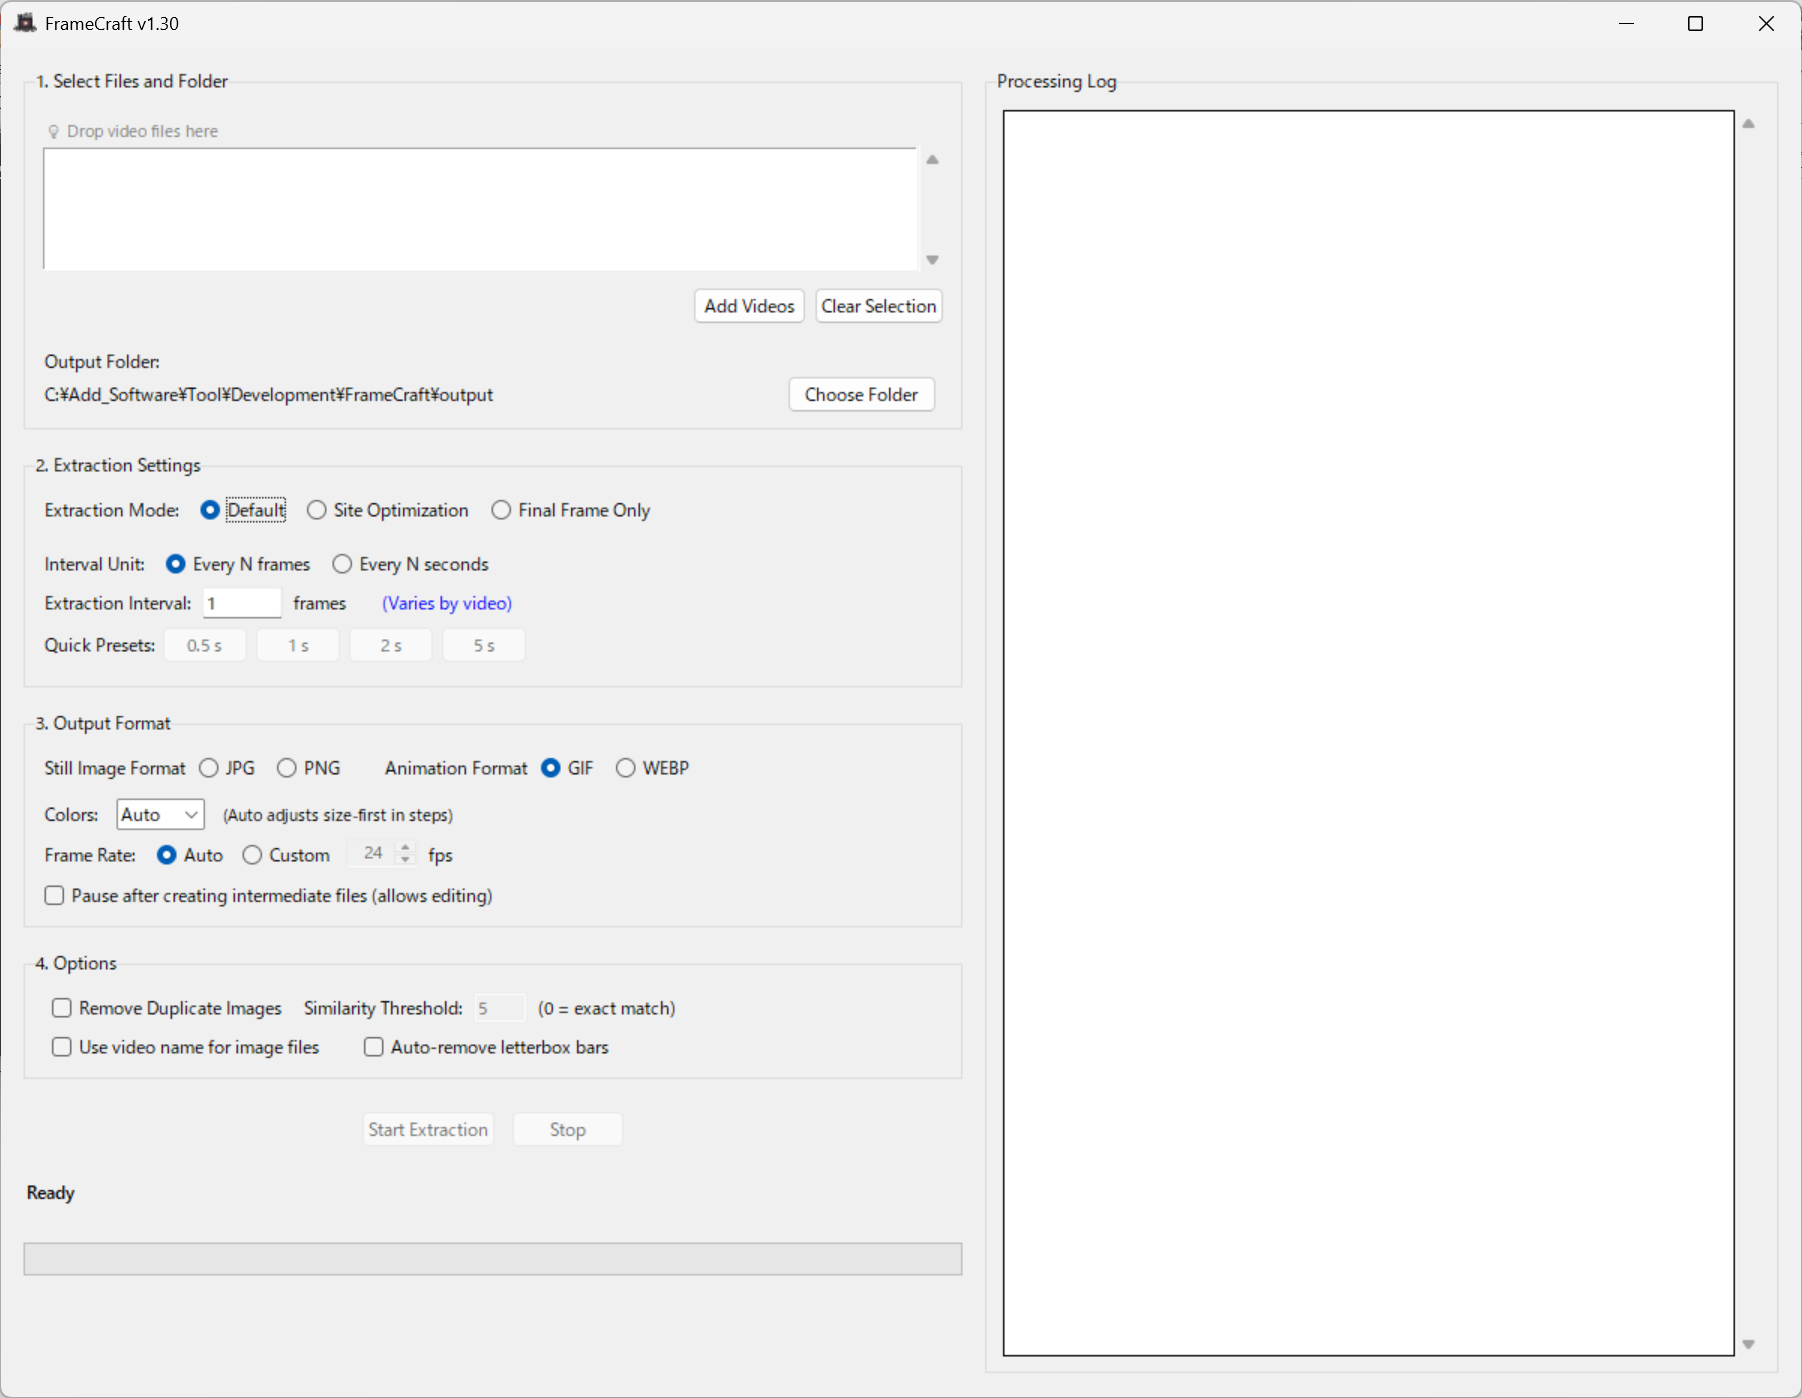
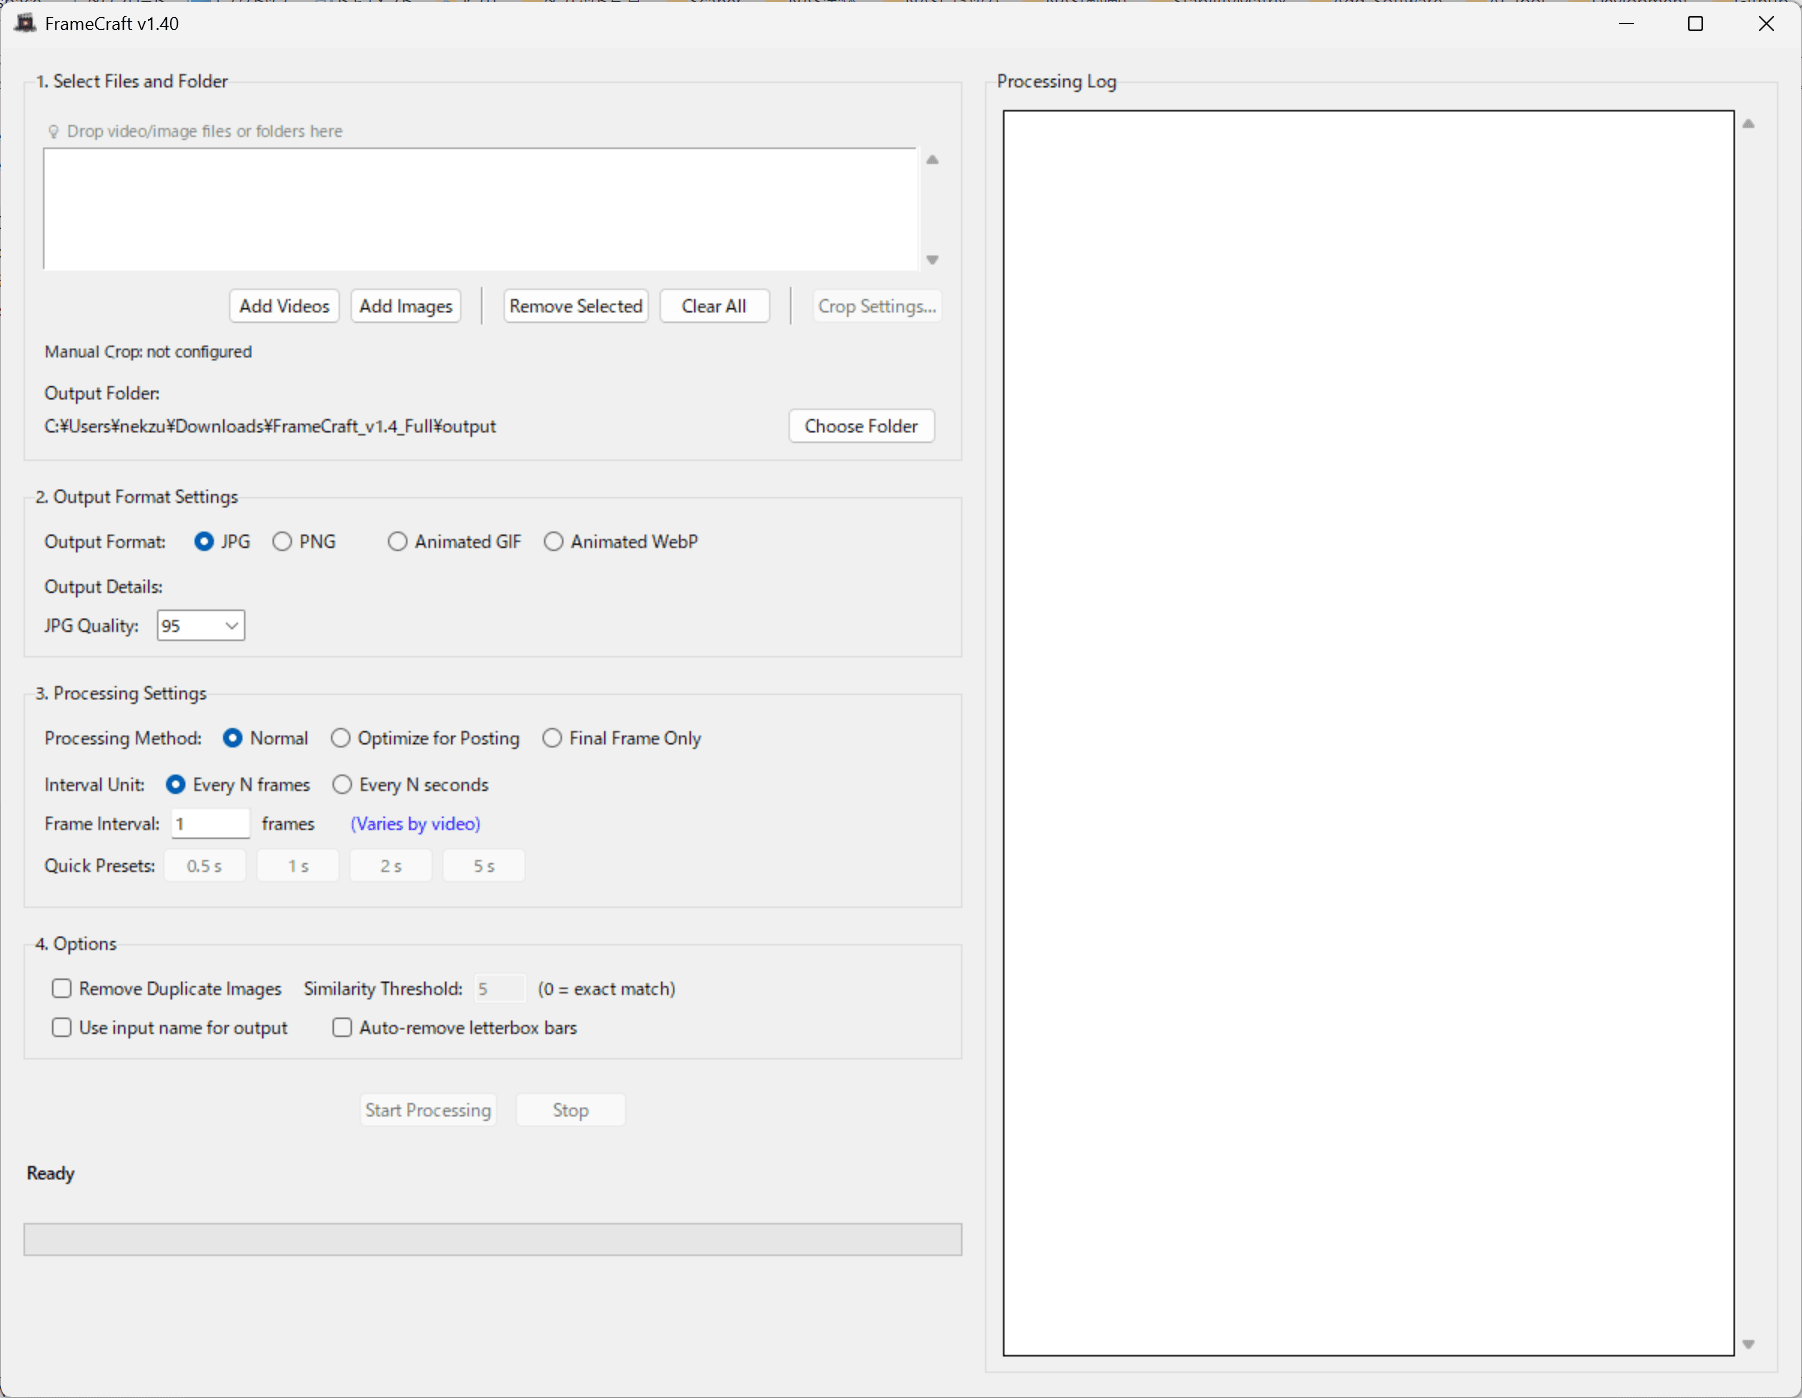
framecraft_update

diff --git a/frame-craft_j.html b/frame-craft_j.html
@@ -24,7 +24,7 @@
     </title>
     <!-- SEO Meta Tags -->
     <meta
-      content="Frame Craftは動画からフレーム抽出し、GIF/WEBPアニメに変換できるWindowsツール。バッチ処理、重複除去、黒帯検出、Pixivうごイラ対応。¥480"
+      content="Frame Craftは動画からフレーム抽出し、GIF/WEBPアニメに変換できるWindowsツール。バッチ処理、重複除去、クロップ/黒帯検出、Pixivうごイラ、画像連番からのアニメ作成に対応。¥500"
       name="description"
     />
     <!-- Open Graph / Facebook -->
@@ -474,12 +474,12 @@
           "重複フレームの自動除去",
           "黒帯の自動検出・除去",
           "各種サイト用の出力対応",
-          "Pixiv/X/Note/Mastodon/Threads/Zen/Qlita/Tumblr"
+          "Pixiv/X/Note/Mastodon/Threads/Zen/Qlita/Tumblr",
           "GIF・WEBPアニメーション変換",
           "複数動画の一括処理",
           "多言語インターフェース（英語・日本語）"
         ],
-        "softwareVersion": "1.30",
+        "softwareVersion": "1.40",
         "offers": [
           {
             "@type": "Offer",
@@ -570,12 +570,12 @@
                 </p>
               </div>
               <div class="price">
-                <span class="lang-ja">¥480</span>
+                <span class="lang-ja">¥500</span>
               </div>
               <div class="btns">
                 <a
                   class="btn primary lang-ja"
-                  href="https://synekzuk.booth.pm/items/6911255"
+                  href="https://synekzuk.booth.pm/items/7295171"
                   rel="noopener"
                   target="_blank"
                   >BOOTH</a
@@ -746,7 +746,7 @@
           <p>
             <a
               class="btn download"
-              href="https://drive.google.com/file/d/1ZBpCfguoNaV8CcHMssKZpibZg_EHz5Sf/view?usp=drive_link"
+              href="https://drive.google.com/file/d/1qoGdxW68F9pfOxQ3j4rgpprDzSjd9Ma5/view?usp=drive_link"
               rel="noopener"
               target="_blank"
               >Download from Google Drive</a
@@ -772,25 +772,27 @@
             <div class="box">
               <div class="kv">
                 <div class="label lang-ja">最新バージョン</div>
-                <div class="value">v1.30</div>
+                <div class="value">v1.40</div>
               </div>
             </div>
             <div class="box">
               <div class="kv">
                 <div class="label lang-ja">リリース日</div>
-                <div class="value">2026-03-21</div>
+                <div class="value">2026-05-04</div>
               </div>
             </div>
           </div>
           <div class="hr"></div>
           <h3><span class="lang-ja">最新の更新内容</span></h3>
           <ul class="lang-ja">
-            <li>様々なサイト用の出力設定追加</li>
-            <li>重複検出アルゴリズムの改善</li>
+            <li>JPG/PNG連番からGIF/WEBPアニメーションを作成可能に変更</li>
+            <li>プレビュー付き手動クロップとアスペクト比固定に対応</li>
+            <li>アニメーション出力時のFPS・品質調整を強化</li>
+            <li>投稿向け最適化ワークフローを改善</li>
           </ul>
           <p style="margin-top: 1rem">
             <a
-              href="https://note.com/nekzuk/n/n06bae326716f"
+              href="https://note.com/nekzuk/n/n6e02be9105af"
               rel="noopener"
               target="_blank"
             >

diff --git a/frame-craft.html b/frame-craft.html
@@ -24,7 +24,7 @@
     </title>
     <!-- SEO Meta Tags -->
     <meta
-      content="Frame Craft extracts video frames and converts them to GIF/WEBP animations. Batch processing, duplicate removal, black-bar detection, and Pixiv ugoira support. ¥480 / $5"
+      content="Frame Craft extracts video frames and converts them to GIF/WEBP animations. Batch processing, duplicate removal, crop/black-bar detection, Pixiv ugoira support, and image sequence animation output. ¥500 / $5"
       name="description"
     />
     <!-- Open Graph / Facebook -->
@@ -479,7 +479,7 @@
           "Batch processing for multiple videos",
           "Multi-language interface (English, Japanese)"
         ],
-        "softwareVersion": "30",
+        "softwareVersion": "1.40",
         "offers": [
           {
             "@type": "Offer",
@@ -751,7 +751,7 @@
           <p>
             <a
               class="btn download"
-              href="https://drive.google.com/file/d/1ZBpCfguoNaV8CcHMssKZpibZg_EHz5Sf/view?usp=drive_link"
+              href="https://drive.google.com/file/d/1qoGdxW68F9pfOxQ3j4rgpprDzSjd9Ma5/view?usp=drive_link"
               rel="noopener"
               target="_blank"
               >Download from Google Drive</a
@@ -777,25 +777,27 @@
             <div class="box">
               <div class="kv">
                 <div class="label lang-en">Current Version</div>
-                <div class="value">v1.30</div>
+                <div class="value">v1.40</div>
               </div>
             </div>
             <div class="box">
               <div class="kv">
                 <div class="label lang-en">Release Date</div>
-                <div class="value">2026-03-21</div>
+                <div class="value">2026-05-04</div>
               </div>
             </div>
           </div>
           <div class="hr"></div>
           <h3><span class="lang-en">Latest Updates</span></h3>
           <ul class="lang-en">
-            <li>Support for outputting to various sites</li>
-            <li>Improved duplicate detection algorithm</li>
+            <li>Create GIF/WEBP animations from JPG/PNG image sequences</li>
+            <li>Manual crop settings with preview and aspect-ratio locking</li>
+            <li>FPS and quality tuning for animation output</li>
+            <li>Improved posting-oriented optimization workflows</li>
           </ul>
           <p style="margin-top: 1rem">
             <a
-              href="https://note.com/nekzuk/n/n06bae326716f"
+              href="https://note.com/nekzuk/n/n6e02be9105af"
               rel="noopener"
               target="_blank"
             >
